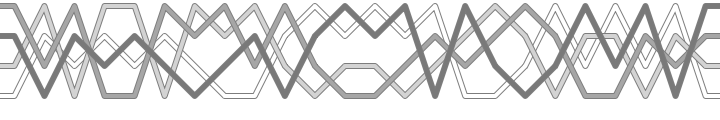
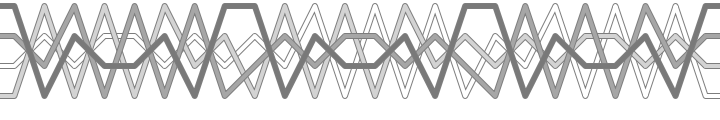
fixed a really dumb bug in vis

diff --git a/python/permvis/vis.py b/python/permvis/vis.py
@@ -1,5 +1,4 @@
 from permute import perm1, perm4, clp_perm, pyorg_perm, xpermutations
-from gray_code import GrayCodeIterator
 from itertools import permutations
 from libpermvis import graph
 
@@ -14,7 +13,9 @@ def transpose(l):
 #perms 1*, 2, 3, pyorg_perm and python's permutation are all
 #lexical permutations
 for algo in [perm1, perm4, clp_perm, pyorg_perm, xpermutations]:
-  perm = transpose(list(i[:] for i in algo(range(4))))
+  l = range(4)
+  perms = list(i[:] for i in algo(l[:]))
+  perm = [[p.index(i) for p in perms] for i in l]
   ldrawer.draw(
     perm,
     "perm", #title
